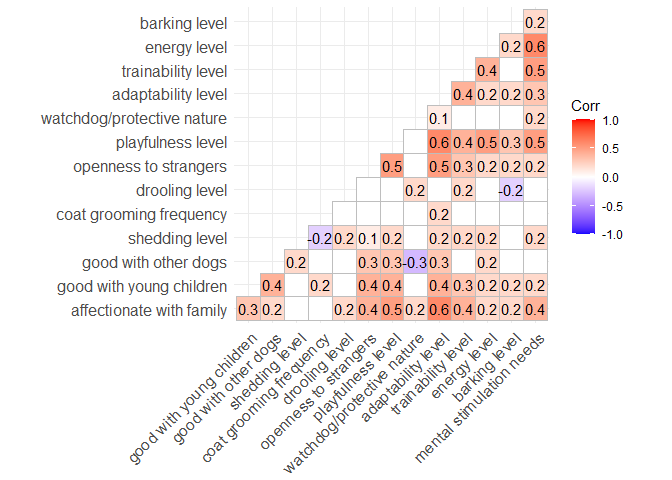
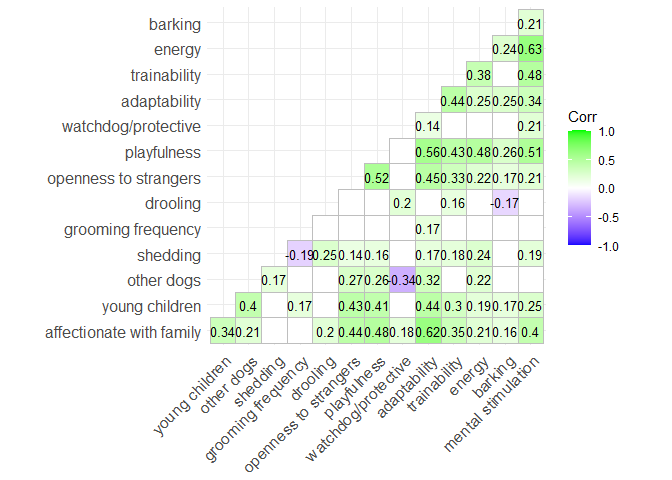
.md update

diff --git a/DogBreeds.md b/DogBreeds.md
@@ -22,12 +22,22 @@ breed_traits %>%
 library(ggcorrplot)
 breed_traits %>%
   keep(is.numeric) %>%
+  rename_with(~ gsub(" level|good with |coat | nature| needs",
+                     "", .x)) %>%
   cor() %>%
-  round(1) %>%
-  ggcorrplot(type = "lower", lab = TRUE, p.mat = cor_pmat(keep(breed_traits, is.numeric)), insig = "blank")
+  round(2) %>%
+  ggcorrplot(type = "lower", lab = TRUE, p.mat = cor_pmat(keep(breed_traits, is.numeric)), 
+             insig = "blank", color = c("#0000FF","#FFFFFF","#00FF00"), lab_size = 3.5)
 ```
 
 ![](DogBreeds_files/figure-gfm/unnamed-chunk-3-1.png)<!-- -->
+
+``` r
+breed_traits %>%
+  ggplot(aes(`adaptability level`, `affectionate with family`)) + geom_count()
+```
+
+![](DogBreeds_files/figure-gfm/unnamed-chunk-3-2.png)<!-- -->
 
 ## Top 13 dogs by total score
 
@@ -58,7 +68,8 @@ breed_rank %>%
   pivot_longer(cols = where(is.numeric), names_to = "year", values_to = "rank") %>%
   mutate(year = as.numeric(year)) %>%
   ggplot(aes(year, rank, color = fct_reorder2(Breed, year, rank, .desc = FALSE))) + geom_line() + geom_point() +
-  scale_y_reverse(breaks = 1:13) + theme(legend.title = element_blank()) +
+  scale_y_reverse(breaks = 1:13) + 
+  theme(legend.title = element_blank(), legend.key.height = unit(0.75,'cm')) +
   labs(title = "Dog Rankings by Year", x = "", y = "")
 ```
 
